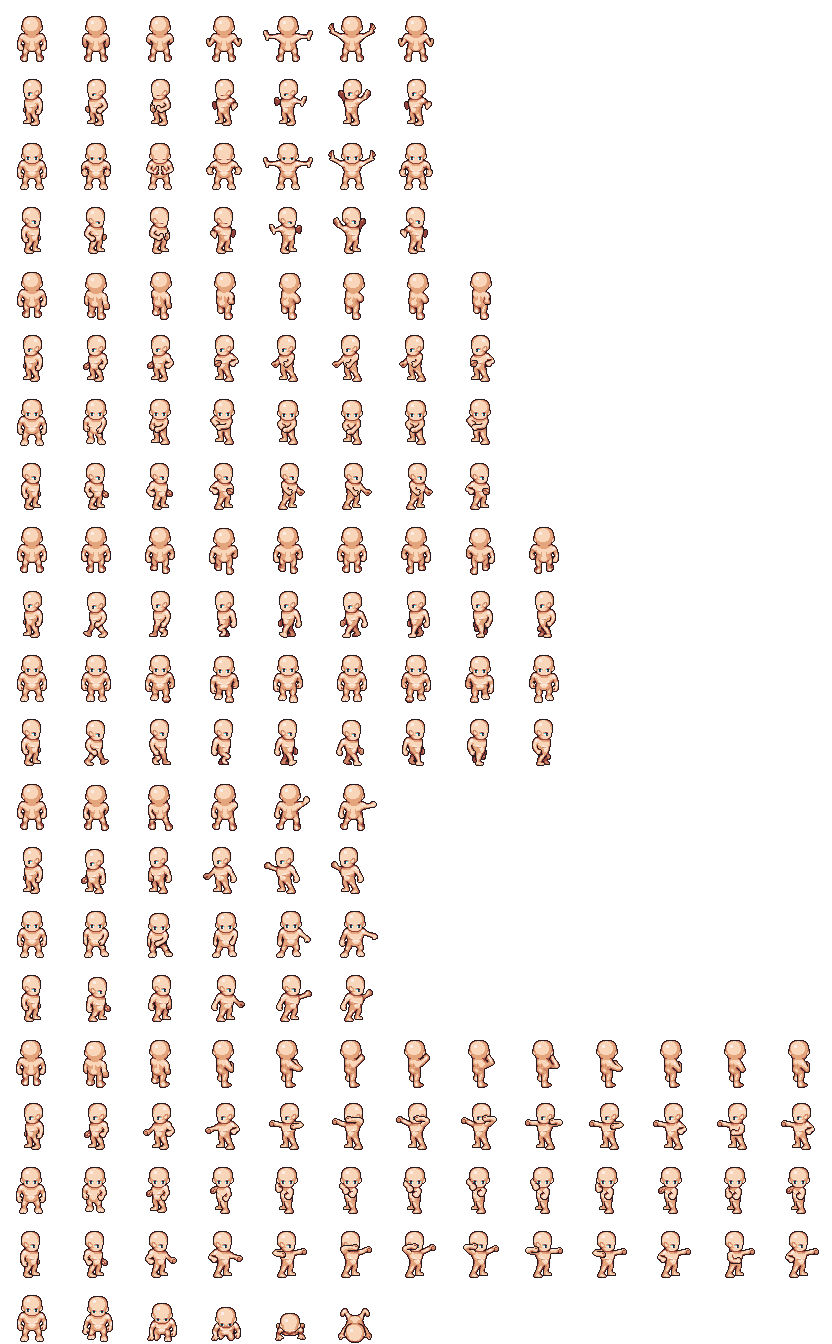
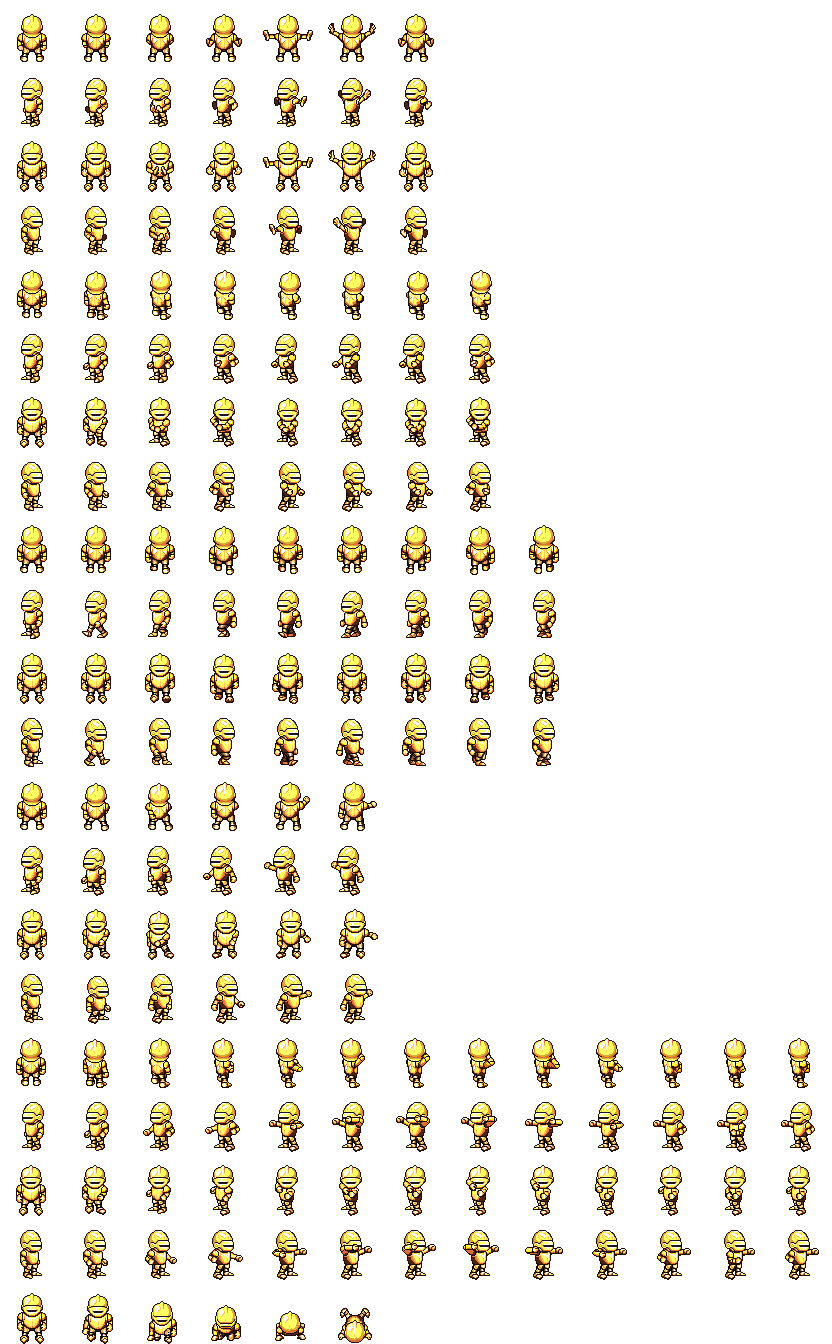
bug fixing. User constrols in level 0

diff --git a/scripts/script.js b/scripts/script.js
@@ -12,6 +12,8 @@ const bgCity = new Image();  // width, height
 bgCity.src = "img/backgrounds/city.png";
 const bgCityStreet = new Image();  // width, height
 bgCityStreet.src = "img/Utility/cityStreet.jpg";
+const bgMetalPlate = new Image();  // width, height
+bgMetalPlate.src = "img/Utility/metalPlate.png";
 const bgAudio = new Image();  // width, height
 bgAudio.src = "img/Utility/audioOn.png";
 
@@ -89,15 +91,45 @@ const playerSprite = new Image();
 playerSprite.src = "img/characters/hero.png";
 
 const characterSprites = []
-const bowlerSprite = new Image();
-bowlerSprite.src = "img/characters/bowler.png"
-const greenSprite = new Image();
-greenSprite.src = "img/characters/green.png"
-const redCoinSprite = new Image();
-redCoinSprite.src = "img/characters/redCoin.png"
-const redSprite = new Image();
-redSprite.src = "img/characters/red.png"
-characterSprites.push(bowlerSprite, greenSprite, redCoinSprite, redSprite)
+const Sprite1 = new Image();
+const Sprite2 = new Image();
+const Sprite3 = new Image();
+const Sprite4 = new Image();
+const Sprite5 = new Image();
+const Sprite6 = new Image();
+const Sprite7 = new Image();
+const Sprite8 = new Image();
+const Sprite9 = new Image();
+const Sprite10 = new Image();
+const Sprite11 = new Image();
+const Sprite12 = new Image();
+const Sprite13 = new Image();
+const Sprite14 = new Image();
+const Sprite15 = new Image();
+const Sprite16 = new Image();
+const Sprite17 = new Image();
+const Sprite18 = new Image();
+
+Sprite1.src = "img/characters/1.png"
+Sprite2.src = "img/characters/2.png"
+Sprite3.src = "img/characters/3.png"
+Sprite4.src = "img/characters/4.png"
+Sprite5.src = "img/characters/5.png"
+Sprite6.src = "img/characters/6.png"
+Sprite7.src = "img/characters/7.png"
+Sprite8.src = "img/characters/8.png"
+Sprite9.src = "img/characters/9.png"
+Sprite10.src = "img/characters/10.png"
+Sprite11.src = "img/characters/11.png"
+Sprite12.src = "img/characters/12.png"
+Sprite13.src = "img/characters/13.png"
+Sprite14.src = "img/characters/14.png"
+Sprite15.src = "img/characters/15.png"
+Sprite16.src = "img/characters/16.png"
+Sprite17.src = "img/characters/17.png"
+Sprite18.src = "img/characters/18.png"
+
+characterSprites.push(Sprite1, Sprite2, Sprite3, Sprite4, Sprite5, Sprite6, Sprite7, Sprite8, Sprite9, Sprite10, Sprite11, Sprite12, Sprite12, Sprite13, Sprite14, Sprite15, Sprite16, Sprite17, Sprite18)
 
 function drawSprite(img, sX, sY, sW, sH, dX, dY, dW, dH){
     ctx.drawImage(img, sX, sY, sW, sH, dX, dY, dW, dH)
@@ -300,10 +332,10 @@ class GameLevel {
 }
 let gameLevelStats = [];
 
-function randomNumber(range, lower){return Math.floor(Math.random() * range + lower)}
+function randomNumber(range, lower){return Math.floor(Math.random() * range + lower)} //return Math.floor(Math.random() * (max - min + 1) + min
 //_levelNumber, _cityHealth, _levelEnemiesTotal, _enemySpeed, _enemyHealth
-const level0 = new GameLevel(0,3,2,0.3,randomNumber(2,1))
-const level1 = new GameLevel(1,3,5,0.5,randomNumber(2,1))
+const level0 = new GameLevel(0,3,5,0.2,1)
+const level1 = new GameLevel(1,3,5,0.3,randomNumber(2,1))
 const level2 = new GameLevel(2,3,7,0.7,randomNumber(4,1))
 const level3 = new GameLevel(3,10,30,1.2,randomNumber(2,1))
 const level4 = new GameLevel(4,1,1,0.2,100)
@@ -331,29 +363,40 @@ for (let i = gameLevelStats.length + 1; i <= 1000; i++){
 // Press spacebar to shoot
 // City Healds is displayed in the bottom of the screen 
 
-let gameStarted = false;
+let gameScreen = 1;
 
 let lastTime = 1;
 function animate(timeStamp){
     ctx.clearRect(0,0,canvas.width, canvas.height)
-    const deltaTime = timeStamp - lastTime;
+    //const deltaTime = timeStamp - lastTime;
     lastTime = timeStamp;
-
     //Background rotation
     const img = document.getElementById("imgVirus")
     img.setAttribute("src", imgs[Math.floor(timeStamp / 8000 % imgs.length)]) //Math.floor(Math.random() * imgs.length)
 
     //Intro
-    if (gameStarted === false){
+    switch (gameScreen) {
+        case 1:
+            ctx.fillStyle = "rgb(255, 255, 255)";
+            ctx.font = "40px Comic Sans MS";
+            ctx.textAlign = "center";
+            ctx.fillText("CLICK TO ENTER", 300, 150);
+            
+            //Mouse Click
+            canvas.addEventListener("click", () => {
+                if (gameScreen === 1 ){
+                gameScreen = 2;
+                }
+            });
+            //Any key
+            document.addEventListener('keydown', (e) => {
+                if (gameScreen === 1 ){
+                gameScreen = 2;
+                }
+            });
+            break;
+        case 2:
         
-        // window.onload=function(){
-        //     let r = confirm("Would you like to auto play music?");
-        //     if (r == true){
-        //         auTheLastCity.play();
-        //     console.log("playering " + auTheLastCity)
-        //     }
-        // }
-
         auTheLastCity.play();
 
         //Text
@@ -376,26 +419,57 @@ function animate(timeStamp){
 
         //Mouse Click
         canvas.addEventListener("click", () => {
-            gameStarted = true;
+            if (gameScreen === 2 ){
+            gameScreen = 3;
+            }
         });
         //Enter Key
         document.addEventListener('keydown', (e) => {
             if (e.keyCode === 13){
-                gameStarted = true;
+                if (gameScreen === 2 ){
+                gameScreen = 3;
+                }
             }
             });
-
-    } else {    
-
+        break;
+    case 3:    
         
+            
+    
         //Background and Scoreboard
-        ctx.fillStyle = 'grey';
-        ctx.fillRect(0, canvas.height - 100, scoreBoard.width, scoreBoard.height)
-
+        //context.drawImage(img,x,y,width,height);
+        ctx.fillStyle = 'black';
+        //ctx.fillRect(0, canvas.height - 100, scoreBoard.width, scoreBoard.height)
+        ctx.drawImage(bgMetalPlate, 0, canvas.height - 102, scoreBoard.width, scoreBoard.height)
         ctx.drawImage(bgCityStreet, 0, 0, canvas.width , 600)
         ctx.drawImage(bgCity, 0, 400, canvas.width , 200)
         //ctx.drawImage(bgAudio, 550, 10, 40 , 40)
         
+        //!Userguide for Level 0
+        if (gameLevelCurrent === 0){
+            //enemies spawn area
+            ctx.lineWidth = 4;
+            
+            ctx.strokeStyle = "red";
+            ctx.strokeRect(20,20,560,100);
+            //ctx.fillStyle = "rgba(0, 0, 0, 1)";
+            
+            //hero baundery
+            ctx.strokeStyle = "blue";
+            ctx.strokeRect(20,200,560,400);
+
+            //hero
+            ctx.strokeStyle = "green";
+            ctx.strokeRect(250,530,100,100);
+
+            // ctx.fillRect(0, 0 , 400, scoreBoard.height)
+            // ctx.rect(20,20,150,100);
+            // ctx.strokeRect(0, 0, canvas.width, canvas.height);
+            // ctx.fillRect(0, 0 , 400, scoreBoard.height)
+            // ctx.rect(20,20,150,100);
+        //     ctx.stroke();
+        }
+
         //Hero
             drawSprite(playerSprite, hero.width * hero.frameX, hero.height * hero.frameY, hero.width, hero.height, hero.x, hero.y, hero.width, hero.height)
             actionHero();
@@ -479,8 +553,8 @@ function animate(timeStamp){
             ctx.font = "35px Comic Sans MS strong";
             ctx.textAlign = "center";
             //ctx.rotate(20 * Math.PI / 180);
-            ctx.fillText("The city has been infected with Corona", 300, 400);
             ctx.fillText("You Lose", 300, 350);
+            ctx.fillText("The city has been infected", 300, 400);
             auTheLastCity.pause();
             auLose.play();
             
@@ -504,13 +578,14 @@ function animate(timeStamp){
             ctx.fillText(`Press ENTER to start level ${gameLevelStats[gameLevelCurrent].levelNumber + 1} `, 300, 450);
         }
 
-            document.addEventListener('keydown', (e) => {
-            if (e.keyCode === 13){
-                if ( gameLevelStats[gameLevelCurrent].levelCompleted === true){
-                         gameLevelCurrent++;
-                }
+        document.addEventListener('keydown', (e) => {
+        if (e.keyCode === 13){
+            if ( gameLevelStats[gameLevelCurrent].levelCompleted === true){
+                        gameLevelCurrent++;
             }
-            });
+        }
+        });
+        break;
     };
 
     handlePlayerFrame();

diff --git a/index.html b/index.html
@@ -6,6 +6,11 @@
     <meta name="viewport" content="width=device-width, initial-scale=1.0">
     <title>The Covid19 Pandemic</title>
     <link rel="stylesheet" href="styles\style.css">
+    <!-- fontFamily - Indie Flower -->
+    <link rel="preconnect" href="https://fonts.googleapis.com">
+    <link rel="preconnect" href="https://fonts.gstatic.com" crossorigin>    
+    <link href="https://fonts.googleapis.com/css2?family=Indie+Flower&display=swap" rel="stylesheet">
+
 </head>
 <body>
     <img id="imgVirus" src="img\backgrounds\virus2.jpg" alt="virus">

diff --git a/styles/style.css b/styles/style.css
@@ -3,9 +3,9 @@
     padding: 0;
 }
 
-/* body {
-  background-image: url('img\backgrounds\virus2.jpg');
-} */
+body {
+  font-family: 'Indie Flower', cursive;
+}
 
 #canvas1 {
     width: 600px;
@@ -26,3 +26,4 @@ img{
   margin: 0 auto;
   padding: 0;
 }
+

diff --git a/readme.md b/readme.md
@@ -1,7 +1,10 @@
 # The Last City
 
 ## Introduction
-This game is the first project in the first module of Ironhacks Full Stack Developer Program. 
+This game is the first project in the first module of Ironhacks Full Stack Developer Program.
+
+The goal was to create a simple shooting game with a clear winning and losing setup.
+An additional challenge was to animate the characters using sprite sheets
 
 ## Setup
 If you’d like to view my project in your browser:
@@ -11,7 +14,7 @@ If you’d like to view my project in your browser:
 - `open index.html`
 
 ## Team Members
-Christian Kroer Sørensen :+1
+Christian Kroer Sørensen :+1:
 
 ## Future work
 - Improve design
@@ -23,5 +26,5 @@ Christian Kroer Sørensen :+1
   - Adding vaccination packs
   - Adding bombs
   - Adding bosses
-- Level adjustment
+- Level adjustments
 - Adding storage capabilities (save, high score) 
